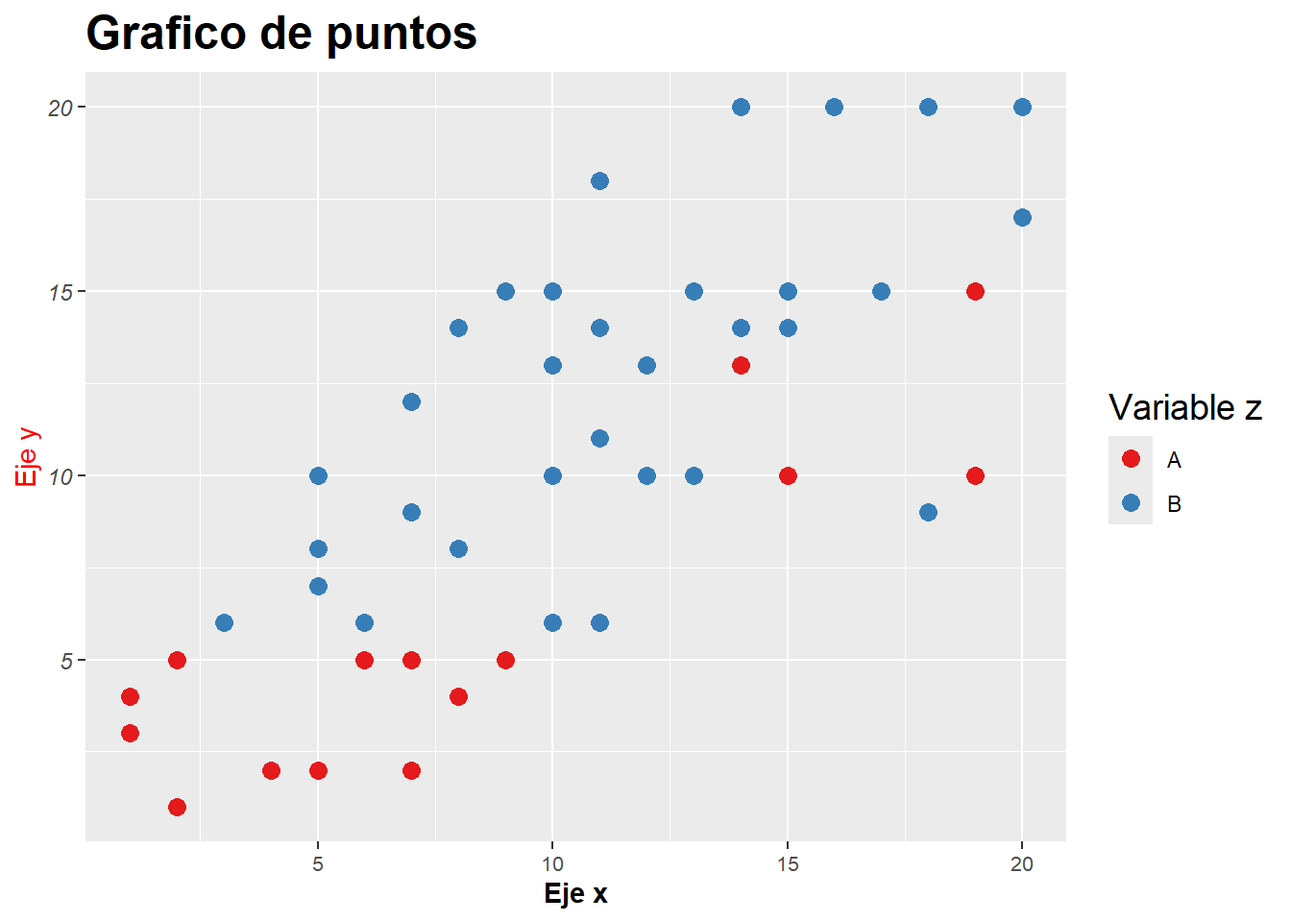
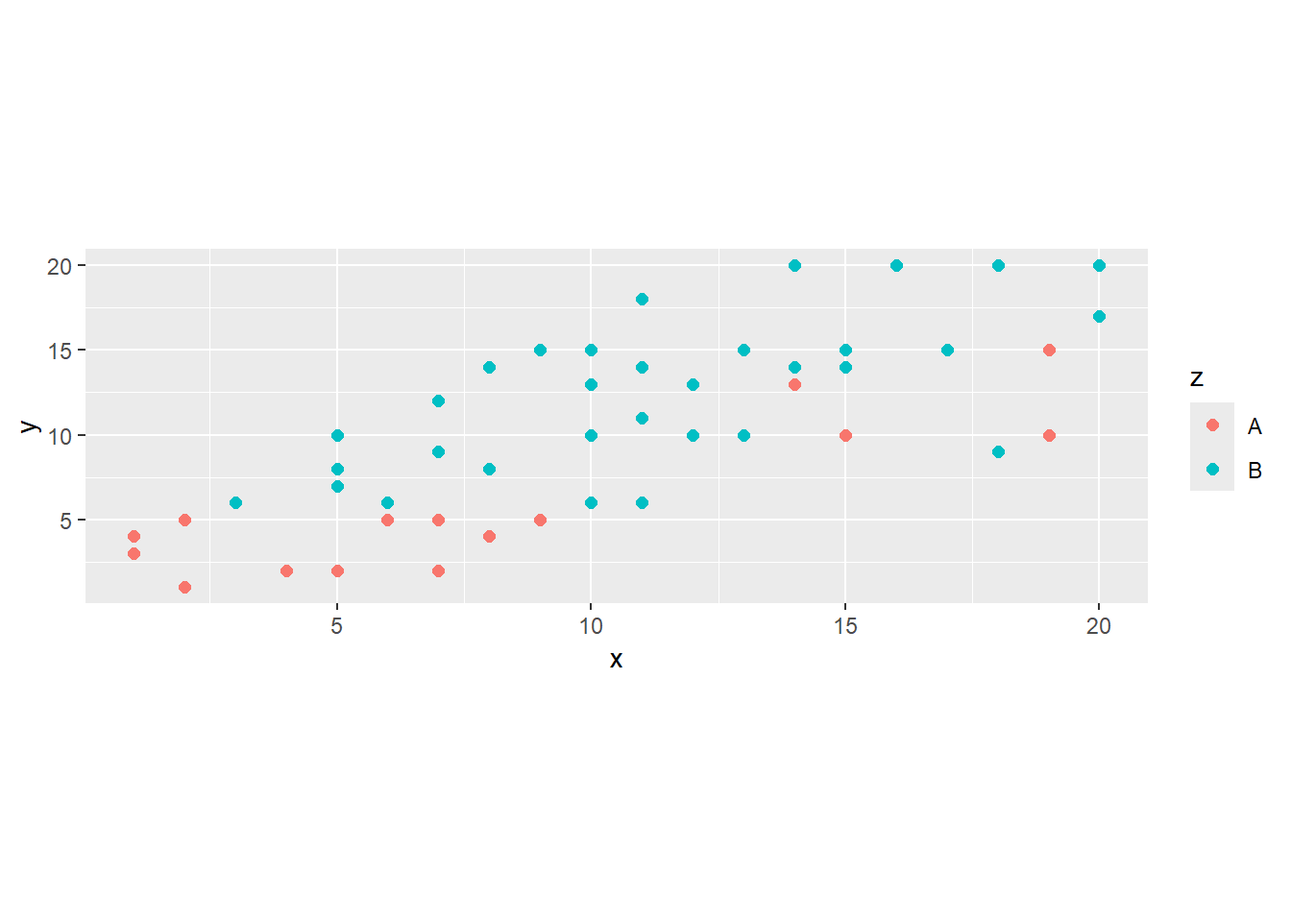
actualizacion 26/6

diff --git a/clases/12-clase/index.html b/clases/12-clase/index.html
@@ -93,13 +93,16 @@ pre > code.sourceCode > span > a:first-child::before { text-decoration: underlin
   </ul></li>
   <li><a href="#gramática-de-gráficos" id="toc-gramática-de-gráficos" class="nav-link" data-scroll-target="#gramática-de-gráficos">Gramática de gráficos</a></li>
   <li><a href="#ejemplo-de-gráfico-de-dispersión" id="toc-ejemplo-de-gráfico-de-dispersión" class="nav-link" data-scroll-target="#ejemplo-de-gráfico-de-dispersión">Ejemplo de gráfico de dispersión</a></li>
+  <li><a href="#estéticas" id="toc-estéticas" class="nav-link" data-scroll-target="#estéticas">Estéticas</a></li>
   <li><a href="#capa-geométrica" id="toc-capa-geométrica" class="nav-link" data-scroll-target="#capa-geométrica">Capa geométrica</a></li>
+  <li><a href="#ejes" id="toc-ejes" class="nav-link" data-scroll-target="#ejes">Ejes</a></li>
   <li><a href="#facetas" id="toc-facetas" class="nav-link" data-scroll-target="#facetas">Facetas</a></li>
   <li><a href="#colores" id="toc-colores" class="nav-link" data-scroll-target="#colores">Colores</a>
   <ul class="collapse">
   <li><a href="#paletas-de-colores" id="toc-paletas-de-colores" class="nav-link" data-scroll-target="#paletas-de-colores">Paletas de colores</a></li>
   <li><a href="#funciones-scale_" id="toc-funciones-scale_" class="nav-link" data-scroll-target="#funciones-scale_">Funciones scale_*</a></li>
   </ul></li>
+  <li><a href="#coordenadas" id="toc-coordenadas" class="nav-link" data-scroll-target="#coordenadas">Coordenadas</a></li>
   <li><a href="#personalización" id="toc-personalización" class="nav-link" data-scroll-target="#personalización">Personalización</a></li>
   <li><a href="#exportación" id="toc-exportación" class="nav-link" data-scroll-target="#exportación">Exportación</a></li>
   <li><a href="#composición-de-gráficos" id="toc-composición-de-gráficos" class="nav-link" data-scroll-target="#composición-de-gráficos">Composición de gráficos</a></li>
@@ -142,7 +145,7 @@ pre > code.sourceCode > span > a:first-child::before { text-decoration: underlin
 <p>La visualización de datos puede ser un medio muy eficaz para identificar patrones en los datos y transmitir un mensaje.</p>
 <p>El objetivo científico de cualquier visualización es permitir al lector comprender datos y extraer información intuitivamente, de la forma más precisa y eficiente.</p>
 <p>Generalmente construimos visualizaciones para dos fines:</p>
-<p>Como parte del <strong>Análisis exploratorio (EDA)</strong> para descubrir y describir patrones en los datos o para <strong>presentar y comunicar</strong>, logrando transmitir el mensaje de forma clara y atractiva.</p>
+<p>Como parte del <strong>análisis exploratorio (EDA)</strong> para descubrir y describir patrones en los datos o para <strong>presentar y comunicar</strong>, logrando transmitir el mensaje de forma clara y atractiva.</p>
 <p>Es importante, al crear una visualización, considerar las características del público objetivo. La interpretación está en el ojo del espectador, y una visualización sólo logrará transmitir su mensaje si se diseña teniendo en cuenta a su audiencia.</p>
 <p>Una visualización de datos exitosa logra:</p>
 <ul>
@@ -151,8 +154,8 @@ pre > code.sourceCode > span > a:first-child::before { text-decoration: underlin
 <li><p><strong>Aumentar la precisión:</strong> Las narrativas suelen ser menos precisas que una representación visual que muestra puntos de datos y sus ejes correspondientes, mientras que un texto con demasiados datos puede dificultar el seguimiento de la línea argumental.</p></li>
 <li><p><strong>Resumir contenido:</strong> Los gráficos y tablas permiten resumir contenido textual complejo, ayudando al lector a memorizar puntos clave.</p></li>
 </ul>
-<p>Por estas razones, las visualizaciones de datos son elementos clave en casi cualquier tipo de publicación: artículos científicos, presentaciones, posters, etc</p>
-<p>Las tablas también son una forma de visualizar datos o resúmenes estadísticos y pueden ser componentes igualmente importantes en una publicación. En algunos casos, una tabla puede visualizar los datos mejor que un gráfico.</p>
+<p>Por estas razones, las visualizaciones de datos son elementos clave en cualquier tipo de publicación: artículos científicos, presentaciones, posters, etc</p>
+<p>Las tablas también son una forma de visualizar datos y resúmenes estadísticos. Suelen ser componentes igualmente importantes en una publicación y en algunos casos, una tabla puede visualizar los datos mejor que un gráfico.</p>
 <section id="principios-y-elementos-de-las-visualizaciones" class="level2">
 <h2 class="anchored" data-anchor-id="principios-y-elementos-de-las-visualizaciones">Principios y elementos de las visualizaciones</h2>
 <p>Las visualizaciones de datos deben tener un propósito que no debemos de perder de vista en el proceso de construcción.</p>
@@ -193,7 +196,7 @@ pre > code.sourceCode > span > a:first-child::before { text-decoration: underlin
 <h2 class="anchored" data-anchor-id="gramática-de-gráficos">Gramática de gráficos</h2>
 <p>La llamada <strong>“La gramática de gráficos”</strong> define un conjunto de reglas para construir gráficos estadísticos combinando diferentes tipos de capas, de manera similar a la gramática lingüística.</p>
 <p>Esta idea fue propuesta por <strong>Leland Wilkinson</strong> en su publicación de 2005 (The Grammar of Graphics - Statistics and Computing - USA).</p>
-<p>La publicación inspiró a los desarrolladores del paquete <strong>ggplot2</strong>, el primer paquete del universo tidyverse lanzado en 2007, que se basa en un sistema de capas.</p>
+<p>La publicación inspiró a los desarrolladores del paquete <a href="https://ggplot2.tidyverse.org/">ggplot2</a>, el primer paquete del universo tidyverse lanzado en 2007, que se basa en un sistema de capas. El “gg” en el nombre se refiere a la <em>“gramática de los gráficos”</em> utilizada para construir las figuras.</p>
 <div class="quarto-figure quarto-figure-center">
 <figure class="figure">
 <p><img src="images/layers.PNG" class="img-fluid quarto-figure quarto-figure-center figure-img"></p>
@@ -357,6 +360,18 @@ pre > code.sourceCode > span > a:first-child::before { text-decoration: underlin
 </div>
 </div>
 </section>
+<section id="estéticas" class="level2">
+<h2 class="anchored" data-anchor-id="estéticas">Estéticas</h2>
+<p>Observamos que la <strong>estética</strong> de un gráfico refiere a alguna propiedad visual que representa a los datos que estamos mostrando graficamente.</p>
+<p>Los argumentos posibles dentro de <code>aes()</code> son:</p>
+<p><code>color =</code> color de la línea de contorno de un polígono tipo barra, boxplot, etc., o el color de punto y lineas.</p>
+<p><code>fill =</code> el color de relleno de polígonos (por ejemplo, de una barra, boxplot, áreas, etc)</p>
+<p><code>shape =</code> formas que representan un punto (estrella, triángulo, cuadrado, círculo, etc)</p>
+<p><code>size =</code> tamaño del geom (por ejemplo, grosor de línea, tamaño de punto)</p>
+<p><code>alpha =</code> transparencia (1 = opaco, 0 = invisible)</p>
+<p><code>width =</code> ancho de las columnas de un gráfico de barras</p>
+<p><code>linetype =</code> tipo de línea (por ejemplo, sólida, discontinua, punteada)</p>
+</section>
 <section id="capa-geométrica" class="level2">
 <h2 class="anchored" data-anchor-id="capa-geométrica">Capa geométrica</h2>
 <p>Anteriormente decíamos que el tipo de gráfico que queremos construir se decide por el elemento geométrico utilizado en la estructura del ggplot.</p>
@@ -437,6 +452,23 @@ pre > code.sourceCode > span > a:first-child::before { text-decoration: underlin
 </table>
 <p>Muchas de estas funciones se utilizan simultáneamente en capas diferentes del gráfico, por ejemplo podemos hacer un gráfico de barras con una capa de etiquetas. Algunas de las funciones se construyen con estéticas cuantitativas (boxplot) o categóricas (barras), pero también se pueden combinar (por ejemplo, un boxplot por cada categoría de una variable cualitativa).</p>
 <p>También se pueden activar otros paquetes que extienden la idea del ggplot para crear gráficos con otras capas, como heatmap, ridgeline, dispersión de puntos con barras marginales, rain plot, treemaps, waffles, Upset, etc.</p>
+<p>Las estéticas van a cambiar en base al elemento geométrico elegido. En un diagrama de puntos puede que usemos <code>size</code>, <code>color</code>, <code>shape</code> para el tamaño, el color y la forma del punto respectivamente y en un gráfico de barras podemos usar <code>fill</code> y <code>width</code> para el color de relleno y el ancho de la barra, por ejemplo.</p>
+</section>
+<section id="ejes" class="level2">
+<h2 class="anchored" data-anchor-id="ejes">Ejes</h2>
+<p>Los gráficos con coordenadas cartesianas tienen dos ejes. Estos se pueden configurar mediante las capas <code>scale_x_*</code> y <code>scale_y_*</code>. Hay escalas para distintos tipos de datos y ggplot implementa funciones con sufijos como:</p>
+<ul>
+<li><code>continuous</code>: valores continuos</li>
+<li><code>date</code>: valores tipo fecha</li>
+<li><code>datetime</code>: valores fecha y hora</li>
+<li><code>log10</code>: valores logaritmicos</li>
+<li><code>discrete</code>: valores discretos</li>
+</ul>
+<p>Estas funciones tienen argumentos comunes para definir los límites (<code>limits</code>), el titulo (<code>name</code>) y los cortes que queremos para las marcas del eje (<code>breaks</code>).</p>
+<p>En ocasiones necesitamos construir gráficos con doble eje y, es decir visualizar simultáneamente dos variables relacionadas con el mismo eje x donde cada una tiene una escala diferente.</p>
+<p>Algunas de esta funciones de escala traen un argumento especial llamado <code>sec.axis =</code> que se puede combinar con la función de ggplot del mismo nombre (<code>sec_axis()</code>) para definir ese segundo eje que será representado en el extremo derecho del gráfico.</p>
+<p><code>sec_axis()</code> no permite construir un eje <strong>y</strong> completamente nuevo. Simplemente construye uno basado en el primero, aplicando una transformación matemática, como el logaritmo o la raíz cuadrada.<br>
+Habrá que tener en cuenta que las magnitudes de escala de ambas capas sean consistentes para lograr una visualización armoniosa.</p>
 </section>
 <section id="facetas" class="level2">
 <h2 class="anchored" data-anchor-id="facetas">Facetas</h2>
@@ -487,6 +519,26 @@ pre > code.sourceCode > span > a:first-child::before { text-decoration: underlin
 <p>Otra cuestión a tener en cuenta es la accesibilidad para personas daltónicas, es decir utilizar paletas de colores amigables que garanticen que la información sea accesible para todxs. Un paquete en R que aborda este tema es <a href="https://cran.r-project.org/web/packages/colorBlindness/vignettes/colorBlindness.html">colorBlindness</a>.</p>
 </section>
 </section>
+<section id="coordenadas" class="level2">
+<h2 class="anchored" data-anchor-id="coordenadas">Coordenadas</h2>
+<p>Es muy fácil invertir un gráfico. La función de coordenadas <code>coord_flip()</code> es todo lo que se necesita para hacerlo. Esto es útil con gráficos de barras para dibujarlas horizontales, por ejemplo. También funciona con cualquier otro tipo de capa geométrica.</p>
+<p>Si necesitamos ajustar un eje con respecto a otro (relación de aspecto del sistema de coordenadas cartesianas) se puede aplicar <code>coord_fixed()</code>.</p>
+<p>Tomando el diagrama de dispersión previo:</p>
+<div class="cell" data-layout-align="center">
+<div class="sourceCode cell-code" id="cb14"><pre class="sourceCode r code-with-copy"><code class="sourceCode r"><span id="cb14-1"><a href="#cb14-1" aria-hidden="true" tabindex="-1"></a>datos <span class="sc">|&gt;</span> </span>
+<span id="cb14-2"><a href="#cb14-2" aria-hidden="true" tabindex="-1"></a>  <span class="fu">ggplot</span>(<span class="at">mapping =</span> <span class="fu">aes</span>(<span class="at">x =</span> x, <span class="at">y =</span> y, <span class="at">color =</span> z)) <span class="sc">+</span> </span>
+<span id="cb14-3"><a href="#cb14-3" aria-hidden="true" tabindex="-1"></a>  <span class="fu">geom_point</span>(<span class="at">size =</span> <span class="dv">2</span>) <span class="sc">+</span></span>
+<span id="cb14-4"><a href="#cb14-4" aria-hidden="true" tabindex="-1"></a>  <span class="fu">coord_fixed</span>(<span class="at">ratio =</span> <span class="dv">1</span><span class="sc">/</span><span class="dv">3</span>) </span></code><button title="Copy to Clipboard" class="code-copy-button"><i class="bi"></i></button></pre></div>
+<div class="cell-output-display">
+<div class="quarto-figure quarto-figure-center">
+<figure class="figure">
+<p><img src="index_files/figure-html/unnamed-chunk-12-1.png" class="img-fluid quarto-figure quarto-figure-center figure-img" style="width:70.0%"></p>
+</figure>
+</div>
+</div>
+</div>
+<p>También se puede transformar a las coordenadas cartesianas en polares con <code>coord_polar()</code> para la construicción de gráficos circulares como de torta/sectores o similares.</p>
+</section>
 <section id="personalización" class="level2">
 <h2 class="anchored" data-anchor-id="personalización">Personalización</h2>
 <p>La función <code>theme()</code> de ggplot2 brinda el poder de personalizar cada aspecto de la estética de un gráfico.</p>
@@ -502,24 +554,24 @@ pre > code.sourceCode > span > a:first-child::before { text-decoration: underlin
 <p>Por ejemplo, para los ejes, el argumento <code>axis.*</code> tiene nombres como <code>title</code>, <code>text</code>, <code>ticks</code>, <code>line</code> que se igualan a funciones tipo <code>element_line()</code> para personalización de líneas, <code>element_text()</code> para textos, etc.</p>
 <p>Hagamos un pequeño ejemplo con el gráfico de puntos que desarrollamos en el documento.</p>
 <div class="cell" data-layout-align="center">
-<div class="sourceCode cell-code" id="cb14"><pre class="sourceCode r code-with-copy"><code class="sourceCode r"><span id="cb14-1"><a href="#cb14-1" aria-hidden="true" tabindex="-1"></a>datos <span class="sc">|&gt;</span> </span>
-<span id="cb14-2"><a href="#cb14-2" aria-hidden="true" tabindex="-1"></a>  <span class="fu">ggplot</span>(<span class="at">mapping =</span> <span class="fu">aes</span>(<span class="at">x =</span> x, <span class="at">y =</span> y, <span class="at">color =</span> z)) <span class="sc">+</span> </span>
-<span id="cb14-3"><a href="#cb14-3" aria-hidden="true" tabindex="-1"></a>  <span class="fu">geom_point</span>(<span class="at">size =</span> <span class="dv">3</span>) <span class="sc">+</span></span>
-<span id="cb14-4"><a href="#cb14-4" aria-hidden="true" tabindex="-1"></a>  <span class="fu">labs</span>(<span class="at">title =</span> <span class="st">"Grafico de puntos"</span>, <span class="co"># titulo de grafico</span></span>
-<span id="cb14-5"><a href="#cb14-5" aria-hidden="true" tabindex="-1"></a>       <span class="at">x =</span> <span class="st">"Eje x"</span>, <span class="co"># titulo de eje x</span></span>
-<span id="cb14-6"><a href="#cb14-6" aria-hidden="true" tabindex="-1"></a>       <span class="at">y =</span> <span class="st">"Eje y"</span>) <span class="sc">+</span> <span class="co"># titulo de eje y</span></span>
-<span id="cb14-7"><a href="#cb14-7" aria-hidden="true" tabindex="-1"></a>  <span class="fu">scale_colour_brewer</span>(<span class="at">palette =</span> <span class="st">"Set1"</span>, <span class="co"># paleta Set1 en color</span></span>
-<span id="cb14-8"><a href="#cb14-8" aria-hidden="true" tabindex="-1"></a>                      <span class="at">name =</span> <span class="st">"Variable z"</span>) <span class="sc">+</span> </span>
-<span id="cb14-9"><a href="#cb14-9" aria-hidden="true" tabindex="-1"></a>  <span class="fu">theme</span>(<span class="at">axis.title.x =</span> <span class="fu">element_text</span>(<span class="at">face =</span> <span class="st">"bold"</span>), <span class="co"># titulo de eje x en negrita</span></span>
-<span id="cb14-10"><a href="#cb14-10" aria-hidden="true" tabindex="-1"></a>        <span class="at">axis.title.y =</span> <span class="fu">element_text</span>(<span class="at">color =</span> <span class="st">"red"</span>), <span class="co"># titulo de eje y color rojo</span></span>
-<span id="cb14-11"><a href="#cb14-11" aria-hidden="true" tabindex="-1"></a>        <span class="at">axis.text.x =</span> <span class="fu">element_text</span>(<span class="at">size =</span> <span class="dv">8</span>), <span class="co"># texto de eje x tamaño 7 pts</span></span>
-<span id="cb14-12"><a href="#cb14-12" aria-hidden="true" tabindex="-1"></a>        <span class="at">axis.text.y =</span> <span class="fu">element_text</span>(<span class="at">face =</span> <span class="st">"italic"</span>), <span class="co"># texto de eje y en itálica</span></span>
-<span id="cb14-13"><a href="#cb14-13" aria-hidden="true" tabindex="-1"></a>        <span class="at">legend.title =</span> <span class="fu">element_text</span>(<span class="at">size =</span> <span class="dv">14</span>), <span class="co"># titulo de leyenda tamaño 12 pts</span></span>
-<span id="cb14-14"><a href="#cb14-14" aria-hidden="true" tabindex="-1"></a>        <span class="at">plot.title =</span> <span class="fu">element_text</span>(<span class="at">size =</span> <span class="dv">18</span>, <span class="at">face =</span> <span class="st">"bold"</span>)) <span class="co"># titulo de grafico tamaño 16 pts y negrita</span></span></code><button title="Copy to Clipboard" class="code-copy-button"><i class="bi"></i></button></pre></div>
+<div class="sourceCode cell-code" id="cb15"><pre class="sourceCode r code-with-copy"><code class="sourceCode r"><span id="cb15-1"><a href="#cb15-1" aria-hidden="true" tabindex="-1"></a>datos <span class="sc">|&gt;</span> </span>
+<span id="cb15-2"><a href="#cb15-2" aria-hidden="true" tabindex="-1"></a>  <span class="fu">ggplot</span>(<span class="at">mapping =</span> <span class="fu">aes</span>(<span class="at">x =</span> x, <span class="at">y =</span> y, <span class="at">color =</span> z)) <span class="sc">+</span> </span>
+<span id="cb15-3"><a href="#cb15-3" aria-hidden="true" tabindex="-1"></a>  <span class="fu">geom_point</span>(<span class="at">size =</span> <span class="dv">3</span>) <span class="sc">+</span></span>
+<span id="cb15-4"><a href="#cb15-4" aria-hidden="true" tabindex="-1"></a>  <span class="fu">labs</span>(<span class="at">title =</span> <span class="st">"Grafico de puntos"</span>, <span class="co"># titulo de grafico</span></span>
+<span id="cb15-5"><a href="#cb15-5" aria-hidden="true" tabindex="-1"></a>       <span class="at">x =</span> <span class="st">"Eje x"</span>, <span class="co"># titulo de eje x</span></span>
+<span id="cb15-6"><a href="#cb15-6" aria-hidden="true" tabindex="-1"></a>       <span class="at">y =</span> <span class="st">"Eje y"</span>) <span class="sc">+</span> <span class="co"># titulo de eje y</span></span>
+<span id="cb15-7"><a href="#cb15-7" aria-hidden="true" tabindex="-1"></a>  <span class="fu">scale_colour_brewer</span>(<span class="at">palette =</span> <span class="st">"Set1"</span>, <span class="co"># paleta Set1 en color</span></span>
+<span id="cb15-8"><a href="#cb15-8" aria-hidden="true" tabindex="-1"></a>                      <span class="at">name =</span> <span class="st">"Variable z"</span>) <span class="sc">+</span> </span>
+<span id="cb15-9"><a href="#cb15-9" aria-hidden="true" tabindex="-1"></a>  <span class="fu">theme</span>(<span class="at">axis.title.x =</span> <span class="fu">element_text</span>(<span class="at">face =</span> <span class="st">"bold"</span>), <span class="co"># titulo de eje x en negrita</span></span>
+<span id="cb15-10"><a href="#cb15-10" aria-hidden="true" tabindex="-1"></a>        <span class="at">axis.title.y =</span> <span class="fu">element_text</span>(<span class="at">color =</span> <span class="st">"red"</span>), <span class="co"># titulo de eje y color rojo</span></span>
+<span id="cb15-11"><a href="#cb15-11" aria-hidden="true" tabindex="-1"></a>        <span class="at">axis.text.x =</span> <span class="fu">element_text</span>(<span class="at">size =</span> <span class="dv">8</span>), <span class="co"># texto de eje x tamaño 7 pts</span></span>
+<span id="cb15-12"><a href="#cb15-12" aria-hidden="true" tabindex="-1"></a>        <span class="at">axis.text.y =</span> <span class="fu">element_text</span>(<span class="at">face =</span> <span class="st">"italic"</span>), <span class="co"># texto de eje y en itálica</span></span>
+<span id="cb15-13"><a href="#cb15-13" aria-hidden="true" tabindex="-1"></a>        <span class="at">legend.title =</span> <span class="fu">element_text</span>(<span class="at">size =</span> <span class="dv">14</span>), <span class="co"># titulo de leyenda tamaño 12 pts</span></span>
+<span id="cb15-14"><a href="#cb15-14" aria-hidden="true" tabindex="-1"></a>        <span class="at">plot.title =</span> <span class="fu">element_text</span>(<span class="at">size =</span> <span class="dv">18</span>, <span class="at">face =</span> <span class="st">"bold"</span>)) <span class="co"># titulo de grafico tamaño 16 pts y negrita</span></span></code><button title="Copy to Clipboard" class="code-copy-button"><i class="bi"></i></button></pre></div>
 <div class="cell-output-display">
 <div class="quarto-figure quarto-figure-center">
 <figure class="figure">
-<p><img src="index_files/figure-html/unnamed-chunk-12-1.png" class="img-fluid quarto-figure quarto-figure-center figure-img" style="width:70.0%"></p>
+<p><img src="index_files/figure-html/unnamed-chunk-13-1.png" class="img-fluid quarto-figure quarto-figure-center figure-img" style="width:70.0%"></p>
 </figure>
 </div>
 </div>
@@ -527,27 +579,27 @@ pre > code.sourceCode > span > a:first-child::before { text-decoration: underlin
 <p>Personalizar temas permite mantener un estilo consistente en diferentes gráficos para crear una experiencia visual uniforme y mejorar su legibilidad.</p>
 <p>Es muy útil almacenar la personalización y aplicarla a los gráficos donde la necesitamos.</p>
 <div class="cell">
-<div class="sourceCode cell-code" id="cb15"><pre class="sourceCode r code-with-copy"><code class="sourceCode r"><span id="cb15-1"><a href="#cb15-1" aria-hidden="true" tabindex="-1"></a>mi_tema <span class="ot">&lt;-</span> <span class="fu">theme</span>(<span class="at">axis.title.x =</span> <span class="fu">element_text</span>(<span class="at">face =</span> <span class="st">"bold"</span>), </span>
-<span id="cb15-2"><a href="#cb15-2" aria-hidden="true" tabindex="-1"></a>        <span class="at">axis.title.y =</span> <span class="fu">element_text</span>(<span class="at">color =</span> <span class="st">"red"</span>),</span>
-<span id="cb15-3"><a href="#cb15-3" aria-hidden="true" tabindex="-1"></a>        <span class="at">axis.text.x =</span> <span class="fu">element_text</span>(<span class="at">size =</span> <span class="dv">8</span>), </span>
-<span id="cb15-4"><a href="#cb15-4" aria-hidden="true" tabindex="-1"></a>        <span class="at">axis.text.y =</span> <span class="fu">element_text</span>(<span class="at">face =</span> <span class="st">"italic"</span>), </span>
-<span id="cb15-5"><a href="#cb15-5" aria-hidden="true" tabindex="-1"></a>        <span class="at">legend.title =</span> <span class="fu">element_text</span>(<span class="at">size =</span> <span class="dv">14</span>), <span class="co">#</span></span>
-<span id="cb15-6"><a href="#cb15-6" aria-hidden="true" tabindex="-1"></a>        <span class="at">plot.title =</span> <span class="fu">element_text</span>(<span class="at">size =</span> <span class="dv">18</span>, <span class="at">face =</span> <span class="st">"bold"</span>)) </span></code><button title="Copy to Clipboard" class="code-copy-button"><i class="bi"></i></button></pre></div>
+<div class="sourceCode cell-code" id="cb16"><pre class="sourceCode r code-with-copy"><code class="sourceCode r"><span id="cb16-1"><a href="#cb16-1" aria-hidden="true" tabindex="-1"></a>mi_tema <span class="ot">&lt;-</span> <span class="fu">theme</span>(<span class="at">axis.title.x =</span> <span class="fu">element_text</span>(<span class="at">face =</span> <span class="st">"bold"</span>), </span>
+<span id="cb16-2"><a href="#cb16-2" aria-hidden="true" tabindex="-1"></a>        <span class="at">axis.title.y =</span> <span class="fu">element_text</span>(<span class="at">color =</span> <span class="st">"red"</span>),</span>
+<span id="cb16-3"><a href="#cb16-3" aria-hidden="true" tabindex="-1"></a>        <span class="at">axis.text.x =</span> <span class="fu">element_text</span>(<span class="at">size =</span> <span class="dv">8</span>), </span>
+<span id="cb16-4"><a href="#cb16-4" aria-hidden="true" tabindex="-1"></a>        <span class="at">axis.text.y =</span> <span class="fu">element_text</span>(<span class="at">face =</span> <span class="st">"italic"</span>), </span>
+<span id="cb16-5"><a href="#cb16-5" aria-hidden="true" tabindex="-1"></a>        <span class="at">legend.title =</span> <span class="fu">element_text</span>(<span class="at">size =</span> <span class="dv">14</span>), <span class="co">#</span></span>
+<span id="cb16-6"><a href="#cb16-6" aria-hidden="true" tabindex="-1"></a>        <span class="at">plot.title =</span> <span class="fu">element_text</span>(<span class="at">size =</span> <span class="dv">18</span>, <span class="at">face =</span> <span class="st">"bold"</span>)) </span></code><button title="Copy to Clipboard" class="code-copy-button"><i class="bi"></i></button></pre></div>
 </div>
 <div class="cell" data-layout-align="center">
-<div class="sourceCode cell-code" id="cb16"><pre class="sourceCode r code-with-copy"><code class="sourceCode r"><span id="cb16-1"><a href="#cb16-1" aria-hidden="true" tabindex="-1"></a>datos <span class="sc">|&gt;</span> </span>
-<span id="cb16-2"><a href="#cb16-2" aria-hidden="true" tabindex="-1"></a>  <span class="fu">ggplot</span>(<span class="at">mapping =</span> <span class="fu">aes</span>(<span class="at">x =</span> x, <span class="at">y =</span> y, <span class="at">color =</span> z)) <span class="sc">+</span> </span>
-<span id="cb16-3"><a href="#cb16-3" aria-hidden="true" tabindex="-1"></a>  <span class="fu">geom_point</span>(<span class="at">size =</span> <span class="dv">3</span>) <span class="sc">+</span></span>
-<span id="cb16-4"><a href="#cb16-4" aria-hidden="true" tabindex="-1"></a>  <span class="fu">labs</span>(<span class="at">title =</span> <span class="st">"Grafico de puntos"</span>, <span class="co"># titulo de grafico</span></span>
-<span id="cb16-5"><a href="#cb16-5" aria-hidden="true" tabindex="-1"></a>       <span class="at">x =</span> <span class="st">"Eje x"</span>, <span class="co"># titulo de eje x</span></span>
-<span id="cb16-6"><a href="#cb16-6" aria-hidden="true" tabindex="-1"></a>       <span class="at">y =</span> <span class="st">"Eje y"</span>) <span class="sc">+</span> <span class="co"># titulo de eje y</span></span>
-<span id="cb16-7"><a href="#cb16-7" aria-hidden="true" tabindex="-1"></a>  <span class="fu">scale_colour_brewer</span>(<span class="at">palette =</span> <span class="st">"Set1"</span>, <span class="co"># paleta Set1 en color</span></span>
-<span id="cb16-8"><a href="#cb16-8" aria-hidden="true" tabindex="-1"></a>                      <span class="at">name =</span> <span class="st">"Variable z"</span>) <span class="sc">+</span> </span>
-<span id="cb16-9"><a href="#cb16-9" aria-hidden="true" tabindex="-1"></a>  mi_tema</span></code><button title="Copy to Clipboard" class="code-copy-button"><i class="bi"></i></button></pre></div>
+<div class="sourceCode cell-code" id="cb17"><pre class="sourceCode r code-with-copy"><code class="sourceCode r"><span id="cb17-1"><a href="#cb17-1" aria-hidden="true" tabindex="-1"></a>datos <span class="sc">|&gt;</span> </span>
+<span id="cb17-2"><a href="#cb17-2" aria-hidden="true" tabindex="-1"></a>  <span class="fu">ggplot</span>(<span class="at">mapping =</span> <span class="fu">aes</span>(<span class="at">x =</span> x, <span class="at">y =</span> y, <span class="at">color =</span> z)) <span class="sc">+</span> </span>
+<span id="cb17-3"><a href="#cb17-3" aria-hidden="true" tabindex="-1"></a>  <span class="fu">geom_point</span>(<span class="at">size =</span> <span class="dv">3</span>) <span class="sc">+</span></span>
+<span id="cb17-4"><a href="#cb17-4" aria-hidden="true" tabindex="-1"></a>  <span class="fu">labs</span>(<span class="at">title =</span> <span class="st">"Grafico de puntos"</span>, <span class="co"># titulo de grafico</span></span>
+<span id="cb17-5"><a href="#cb17-5" aria-hidden="true" tabindex="-1"></a>       <span class="at">x =</span> <span class="st">"Eje x"</span>, <span class="co"># titulo de eje x</span></span>
+<span id="cb17-6"><a href="#cb17-6" aria-hidden="true" tabindex="-1"></a>       <span class="at">y =</span> <span class="st">"Eje y"</span>) <span class="sc">+</span> <span class="co"># titulo de eje y</span></span>
+<span id="cb17-7"><a href="#cb17-7" aria-hidden="true" tabindex="-1"></a>  <span class="fu">scale_colour_brewer</span>(<span class="at">palette =</span> <span class="st">"Set1"</span>, <span class="co"># paleta Set1 en color</span></span>
+<span id="cb17-8"><a href="#cb17-8" aria-hidden="true" tabindex="-1"></a>                      <span class="at">name =</span> <span class="st">"Variable z"</span>) <span class="sc">+</span> </span>
+<span id="cb17-9"><a href="#cb17-9" aria-hidden="true" tabindex="-1"></a>  mi_tema</span></code><button title="Copy to Clipboard" class="code-copy-button"><i class="bi"></i></button></pre></div>
 <div class="cell-output-display">
 <div class="quarto-figure quarto-figure-center">
 <figure class="figure">
-<p><img src="index_files/figure-html/unnamed-chunk-14-1.png" class="img-fluid quarto-figure quarto-figure-center figure-img" style="width:70.0%"></p>
+<p><img src="index_files/figure-html/unnamed-chunk-15-1.png" class="img-fluid quarto-figure quarto-figure-center figure-img" style="width:70.0%"></p>
 </figure>
 </div>
 </div>
@@ -559,13 +611,13 @@ pre > code.sourceCode > span > a:first-child::before { text-decoration: underlin
 <p>La función <code>ggsave()</code> exporta los graficos generados por ggplot2 en distintos formatos, tamaños y resoluciones.</p>
 <p>La sintaxis con los argumentos opcionales es:</p>
 <div class="cell">
-<div class="sourceCode cell-code" id="cb17"><pre class="sourceCode r code-with-copy"><code class="sourceCode r"><span id="cb17-1"><a href="#cb17-1" aria-hidden="true" tabindex="-1"></a><span class="fu">ggsave</span>(filename,               <span class="co"># nombre del archivo</span></span>
-<span id="cb17-2"><a href="#cb17-2" aria-hidden="true" tabindex="-1"></a>  <span class="at">plot =</span> <span class="fu">last_plot</span>(),          <span class="co"># nombre del objeto gráfico</span></span>
-<span id="cb17-3"><a href="#cb17-3" aria-hidden="true" tabindex="-1"></a>  <span class="at">device =</span> <span class="cn">NULL</span>,               <span class="co"># formato de salida "jpeg", "png", "tiff", "pdf", etc</span></span>
-<span id="cb17-4"><a href="#cb17-4" aria-hidden="true" tabindex="-1"></a>  <span class="at">width =</span> <span class="cn">NA</span>,                  <span class="co"># ancho en unidades de units</span></span>
-<span id="cb17-5"><a href="#cb17-5" aria-hidden="true" tabindex="-1"></a>  <span class="at">height =</span> <span class="cn">NA</span>,                 <span class="co"># alto en unidades de units</span></span>
-<span id="cb17-6"><a href="#cb17-6" aria-hidden="true" tabindex="-1"></a>  <span class="at">units =</span> <span class="fu">c</span>(<span class="st">"in"</span>, <span class="st">"cm"</span>, <span class="st">"mm"</span>), <span class="co"># unidades de medidas</span></span>
-<span id="cb17-7"><a href="#cb17-7" aria-hidden="true" tabindex="-1"></a>  <span class="at">dpi =</span> <span class="dv">300</span>)                   <span class="co"># resolución de salida en dpi</span></span></code><button title="Copy to Clipboard" class="code-copy-button"><i class="bi"></i></button></pre></div>
+<div class="sourceCode cell-code" id="cb18"><pre class="sourceCode r code-with-copy"><code class="sourceCode r"><span id="cb18-1"><a href="#cb18-1" aria-hidden="true" tabindex="-1"></a><span class="fu">ggsave</span>(filename,               <span class="co"># nombre del archivo</span></span>
+<span id="cb18-2"><a href="#cb18-2" aria-hidden="true" tabindex="-1"></a>  <span class="at">plot =</span> <span class="fu">last_plot</span>(),          <span class="co"># nombre del objeto gráfico</span></span>
+<span id="cb18-3"><a href="#cb18-3" aria-hidden="true" tabindex="-1"></a>  <span class="at">device =</span> <span class="cn">NULL</span>,               <span class="co"># formato de salida "jpeg", "png", "tiff", "pdf", etc</span></span>
+<span id="cb18-4"><a href="#cb18-4" aria-hidden="true" tabindex="-1"></a>  <span class="at">width =</span> <span class="cn">NA</span>,                  <span class="co"># ancho en unidades de units</span></span>
+<span id="cb18-5"><a href="#cb18-5" aria-hidden="true" tabindex="-1"></a>  <span class="at">height =</span> <span class="cn">NA</span>,                 <span class="co"># alto en unidades de units</span></span>
+<span id="cb18-6"><a href="#cb18-6" aria-hidden="true" tabindex="-1"></a>  <span class="at">units =</span> <span class="fu">c</span>(<span class="st">"in"</span>, <span class="st">"cm"</span>, <span class="st">"mm"</span>), <span class="co"># unidades de medidas</span></span>
+<span id="cb18-7"><a href="#cb18-7" aria-hidden="true" tabindex="-1"></a>  <span class="at">dpi =</span> <span class="dv">300</span>)                   <span class="co"># resolución de salida en dpi</span></span></code><button title="Copy to Clipboard" class="code-copy-button"><i class="bi"></i></button></pre></div>
 </div>
 <p>También es posible introducir las salidas gráficas en fragmentos de código de documentos Quarto para producir archivos html, pdf y docx de Microsoft Word.</p>
 </section>
@@ -598,21 +650,22 @@ pre > code.sourceCode > span > a:first-child::before { text-decoration: underlin
 <p>Además de la simple combinación, patchwork ofrece herramientas para personalizar el diseño de la composición final, teniendo en cuenta márgenes, espacios, alineación y proporciones.</p>
 <p>Imaginemos que tenemos varios gráficos que visualizar combinados (en nuestro ejemplo lo haremos con el único gráfico que construimos).</p>
 <div class="cell" data-layout-align="center">
-<div class="sourceCode cell-code" id="cb18"><pre class="sourceCode r code-with-copy"><code class="sourceCode r"><span id="cb18-1"><a href="#cb18-1" aria-hidden="true" tabindex="-1"></a>grafico <span class="ot">&lt;-</span> datos <span class="sc">|&gt;</span> </span>
-<span id="cb18-2"><a href="#cb18-2" aria-hidden="true" tabindex="-1"></a>  <span class="fu">ggplot</span>(<span class="at">mapping =</span> <span class="fu">aes</span>(<span class="at">x =</span> x, <span class="at">y =</span> y, <span class="at">color =</span> z)) <span class="sc">+</span> </span>
-<span id="cb18-3"><a href="#cb18-3" aria-hidden="true" tabindex="-1"></a>  <span class="fu">geom_point</span>(<span class="at">size =</span> <span class="dv">2</span>)</span>
-<span id="cb18-4"><a href="#cb18-4" aria-hidden="true" tabindex="-1"></a></span>
-<span id="cb18-5"><a href="#cb18-5" aria-hidden="true" tabindex="-1"></a><span class="fu">library</span>(patchwork)</span>
-<span id="cb18-6"><a href="#cb18-6" aria-hidden="true" tabindex="-1"></a></span>
-<span id="cb18-7"><a href="#cb18-7" aria-hidden="true" tabindex="-1"></a>(grafico <span class="sc">+</span> grafico) <span class="sc">/</span> grafico </span></code><button title="Copy to Clipboard" class="code-copy-button"><i class="bi"></i></button></pre></div>
+<div class="sourceCode cell-code" id="cb19"><pre class="sourceCode r code-with-copy"><code class="sourceCode r"><span id="cb19-1"><a href="#cb19-1" aria-hidden="true" tabindex="-1"></a>grafico <span class="ot">&lt;-</span> datos <span class="sc">|&gt;</span> </span>
+<span id="cb19-2"><a href="#cb19-2" aria-hidden="true" tabindex="-1"></a>  <span class="fu">ggplot</span>(<span class="at">mapping =</span> <span class="fu">aes</span>(<span class="at">x =</span> x, <span class="at">y =</span> y, <span class="at">color =</span> z)) <span class="sc">+</span> </span>
+<span id="cb19-3"><a href="#cb19-3" aria-hidden="true" tabindex="-1"></a>  <span class="fu">geom_point</span>(<span class="at">size =</span> <span class="dv">2</span>)</span>
+<span id="cb19-4"><a href="#cb19-4" aria-hidden="true" tabindex="-1"></a></span>
+<span id="cb19-5"><a href="#cb19-5" aria-hidden="true" tabindex="-1"></a><span class="fu">library</span>(patchwork)</span>
+<span id="cb19-6"><a href="#cb19-6" aria-hidden="true" tabindex="-1"></a></span>
+<span id="cb19-7"><a href="#cb19-7" aria-hidden="true" tabindex="-1"></a>(grafico <span class="sc">+</span> grafico) <span class="sc">/</span> grafico </span></code><button title="Copy to Clipboard" class="code-copy-button"><i class="bi"></i></button></pre></div>
 <div class="cell-output-display">
 <div class="quarto-figure quarto-figure-center">
 <figure class="figure">
-<p><img src="index_files/figure-html/unnamed-chunk-16-1.png" class="img-fluid quarto-figure quarto-figure-center figure-img" style="width:70.0%"></p>
+<p><img src="index_files/figure-html/unnamed-chunk-17-1.png" class="img-fluid quarto-figure quarto-figure-center figure-img" style="width:70.0%"></p>
 </figure>
 </div>
 </div>
 </div>
+<p>Combinamos mediante operadores básicos una salida de tres gráficos.</p>
 </section>
 
 </main>
